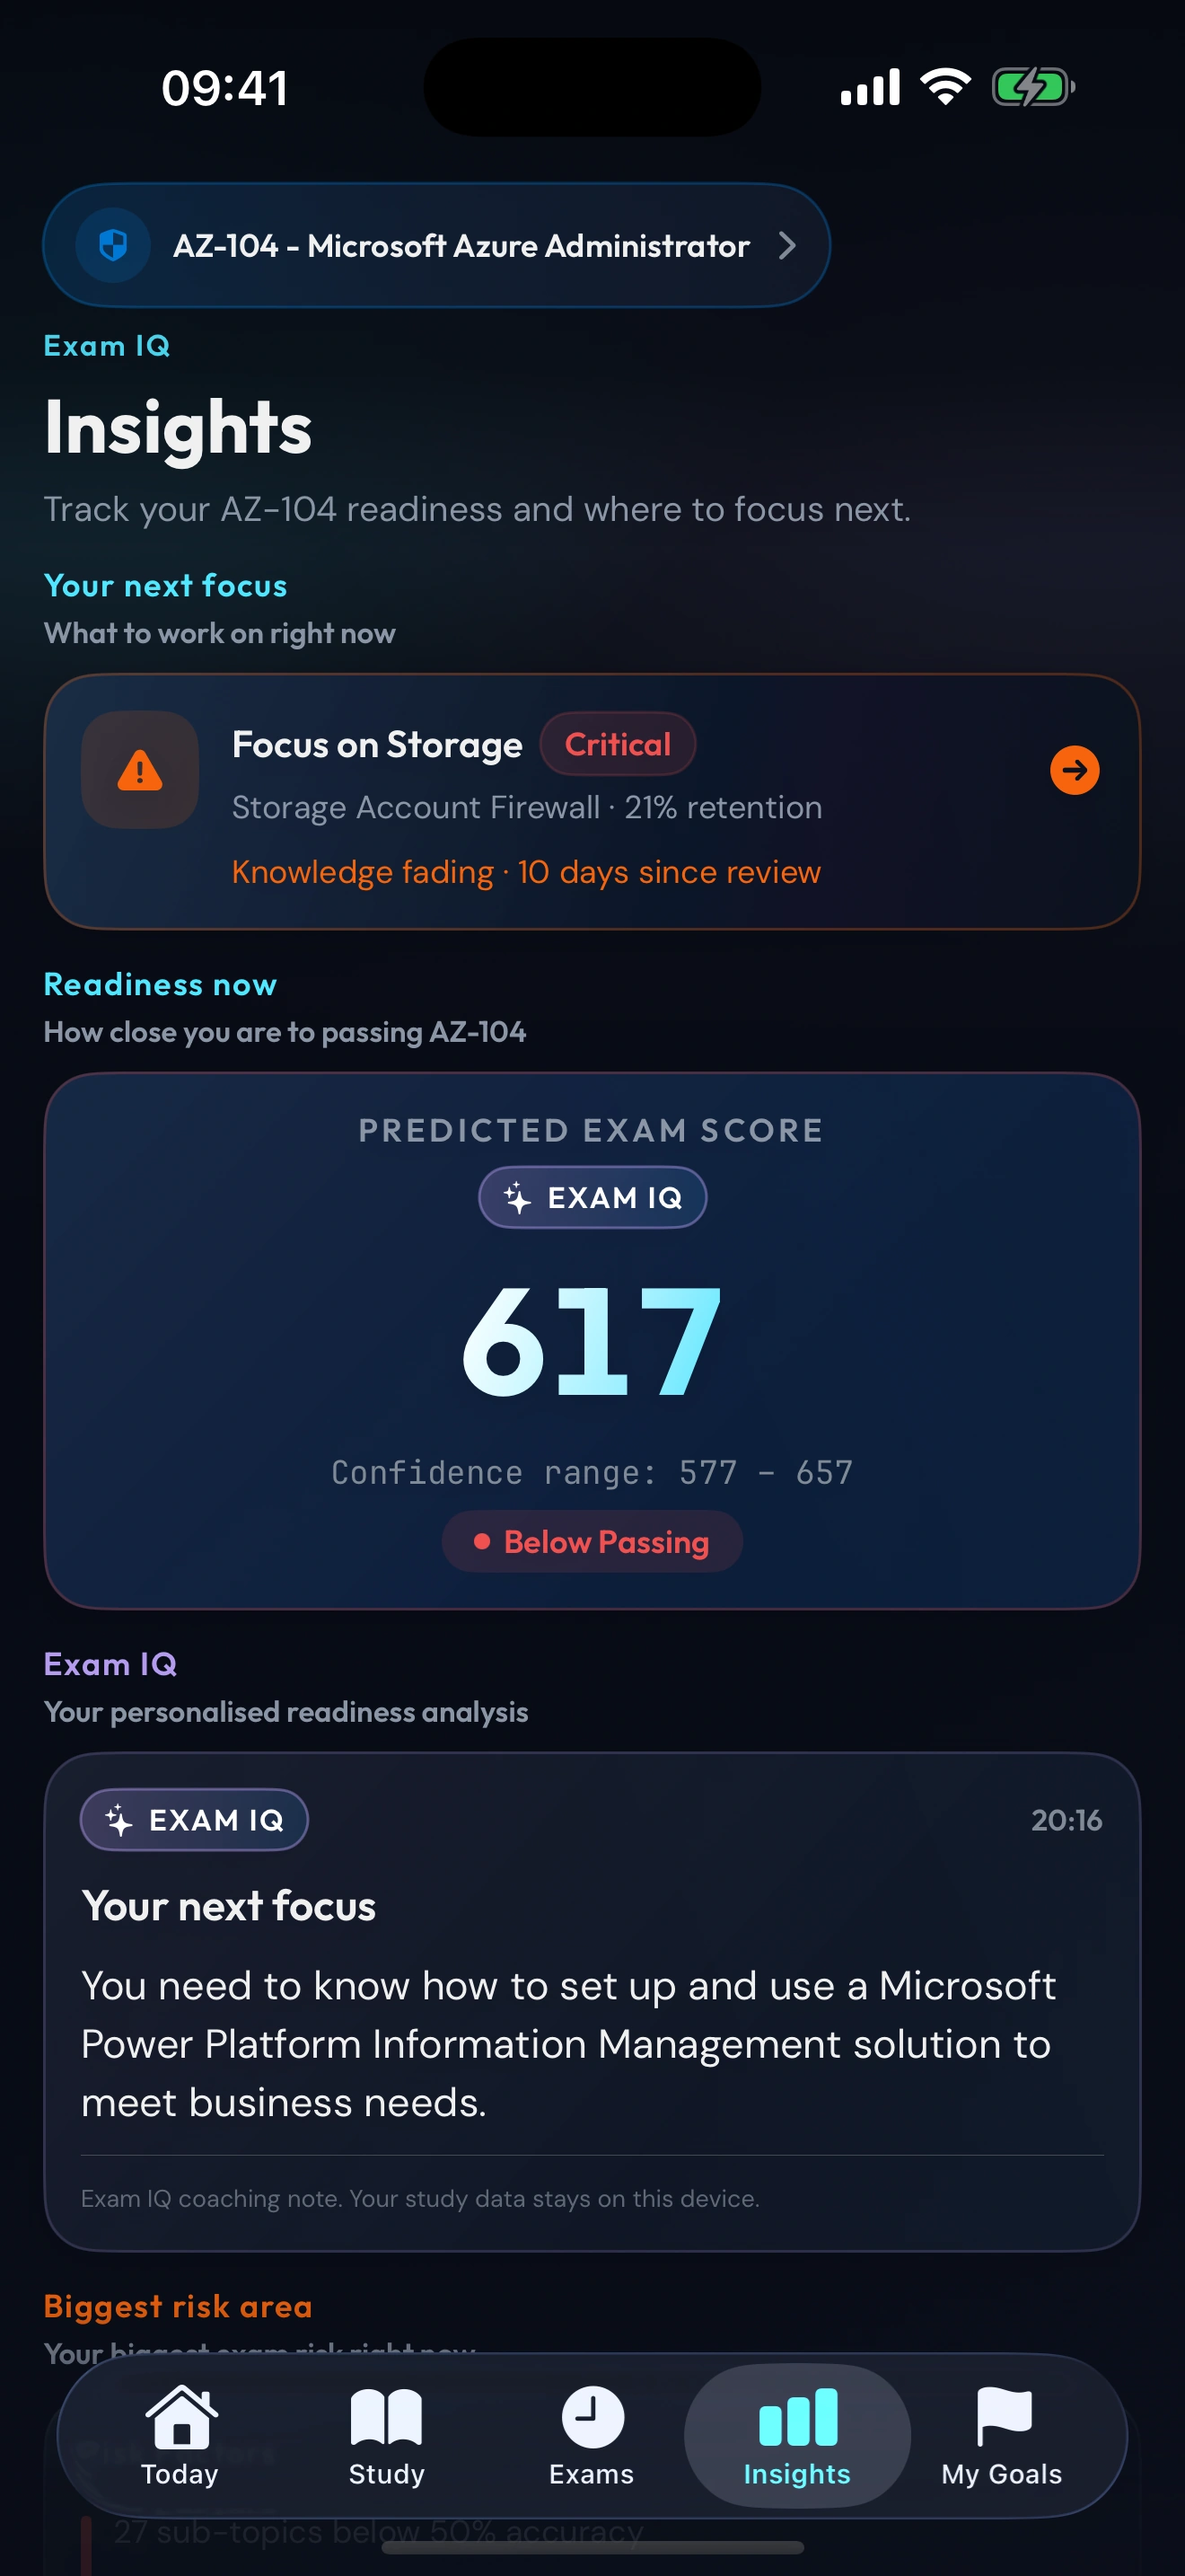
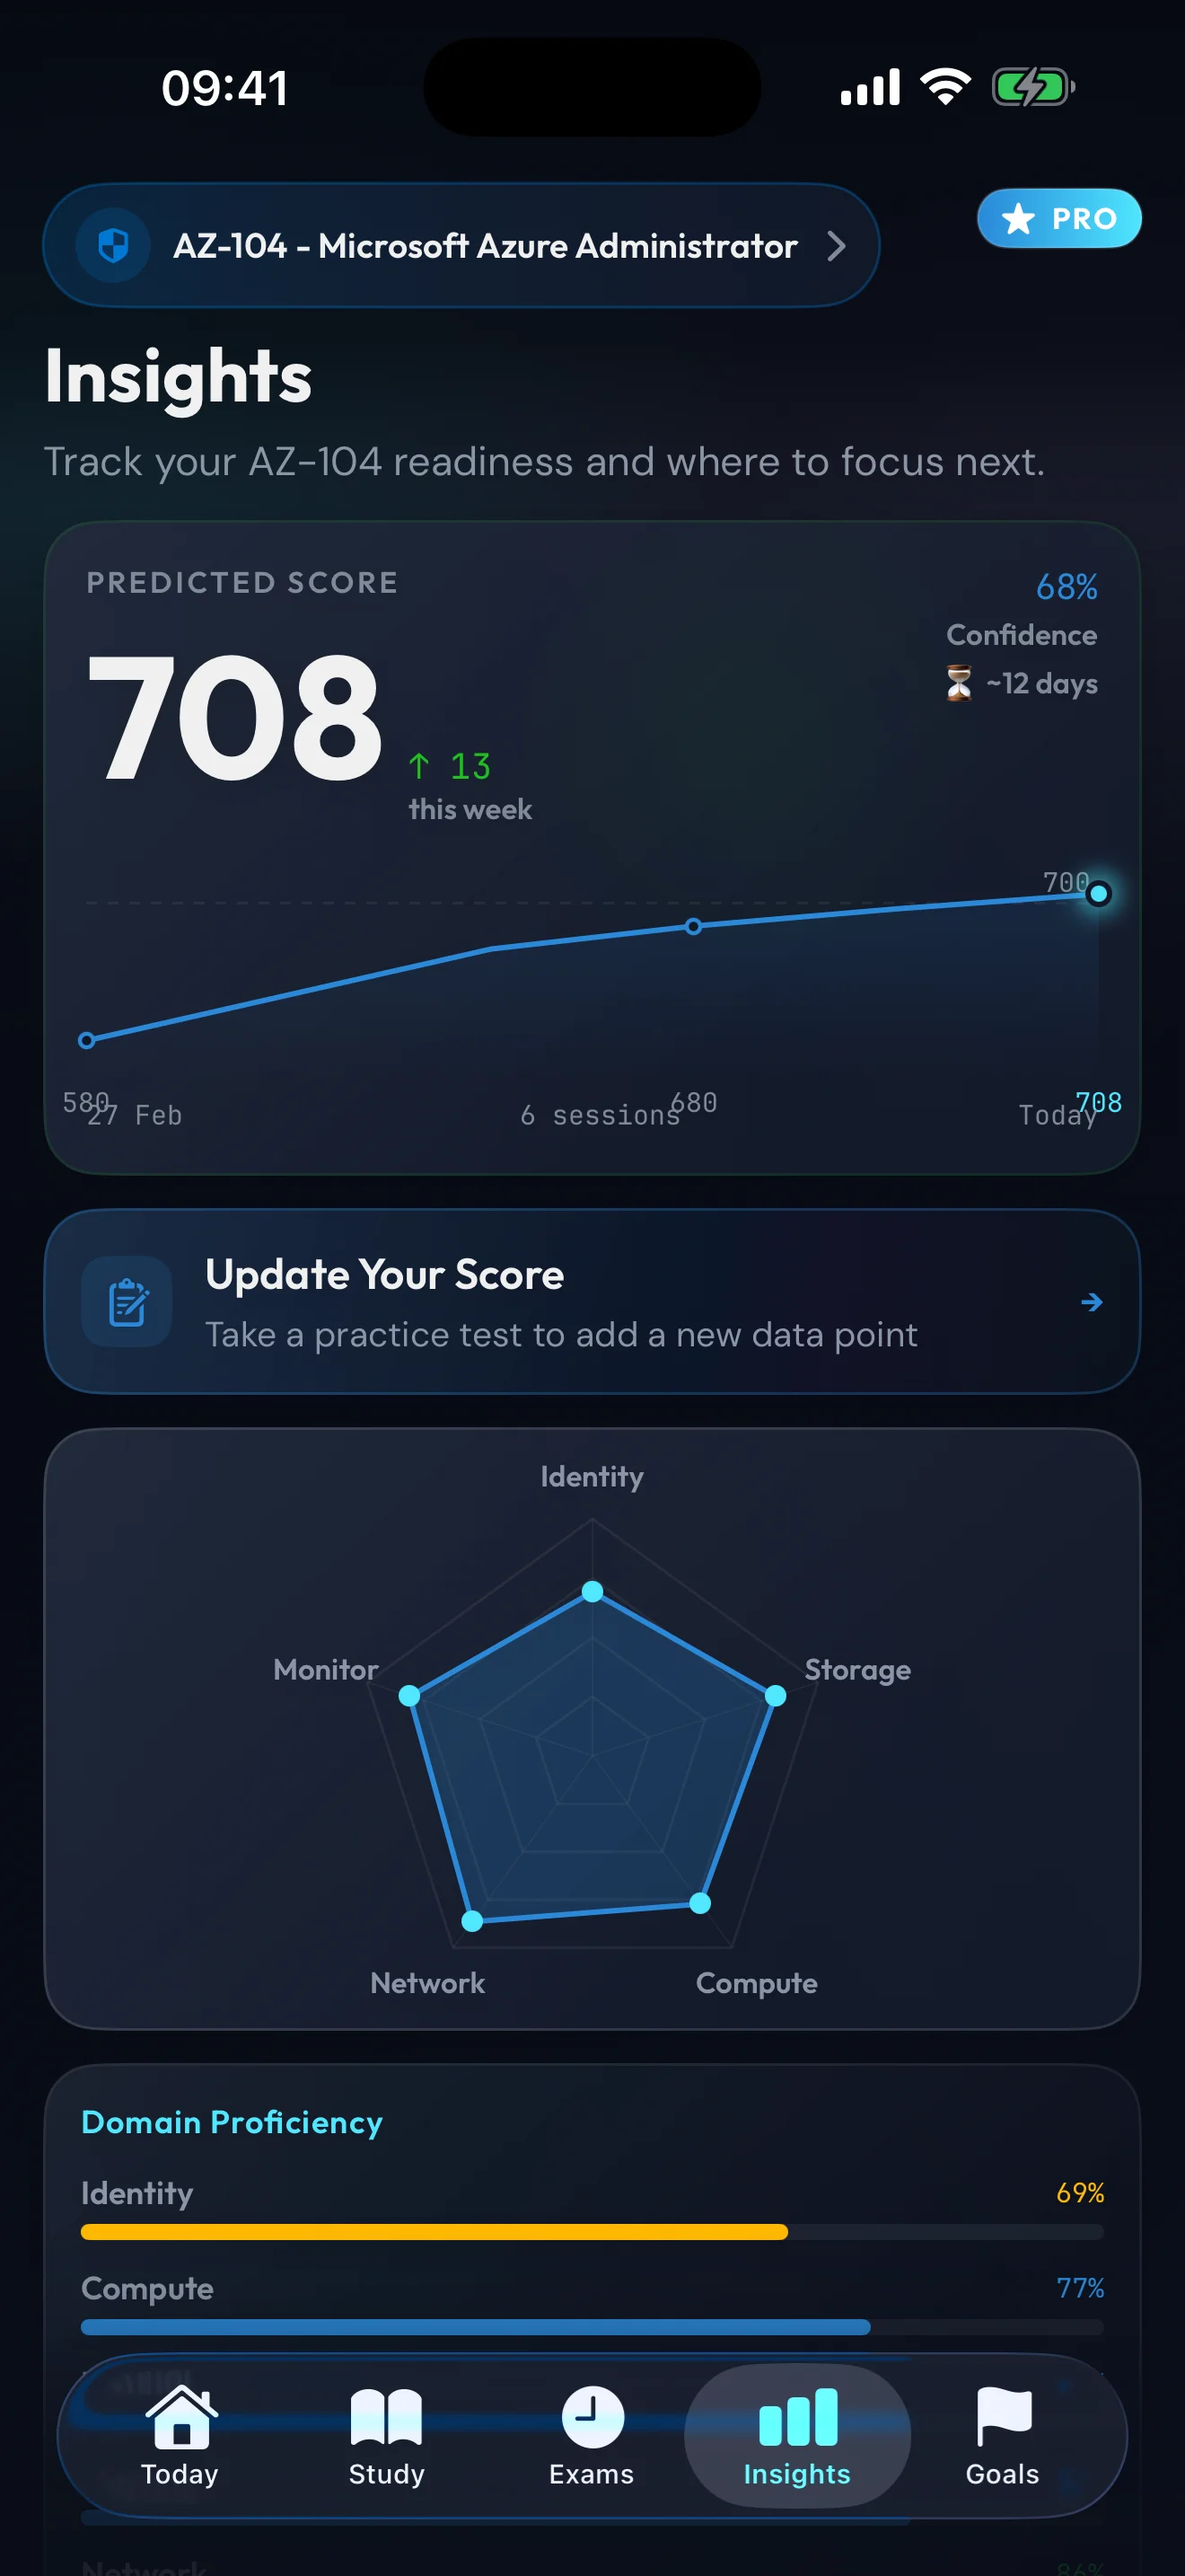
updated for v1.3.0
updated for v1.3.0

diff --git a/apps/AzureMastery/index.html b/apps/AzureMastery/index.html
@@ -951,7 +951,7 @@
     }
     .mac-frame {
       width: 520px;
-      aspect-ratio: 3024 / 1964;
+      aspect-ratio: 3248 / 2002;
       border-radius: 12px;
       background: linear-gradient(160deg,
         #2a2a2e 0%, #1c1c1f 30%, #111113 60%, #232325 85%, #2a2a2e 100%);
@@ -1703,7 +1703,7 @@
       </div>
       <div class="screenshot-frame">
         <div class="phone-frame">
-          <div class="phone-screen"><img src="images/cap-exam-iq.webp" alt="Exam IQ insights with predicted score and confidence range" loading="lazy" class="phone-screen-img"></div>
+          <div class="phone-screen"><img src="images/cap-exam-iq.webp" alt="Insights page with predicted score chart, radar analysis, and domain proficiency" loading="lazy" class="phone-screen-img"></div>
         </div>
       </div>
       <div class="screenshot-frame">
@@ -1763,24 +1763,22 @@
           <div class="ipad-frame">
             <div class="ipad-screen">
               <div class="ipad-slide active" style="background-image: url('images/cap-ipad-today.webp');"></div>
-              <div class="ipad-slide" style="background-image: url('images/cap-ipad-study.webp');"></div>
               <div class="ipad-slide" style="background-image: url('images/cap-ipad-insights.webp');"></div>
-              <div class="ipad-slide" style="background-image: url('images/cap-ipad-exams.webp');"></div>
-              <div class="ipad-slide" style="background-image: url('images/cap-ipad-certpath.webp');"></div>
-              <div class="ipad-slide" style="background-image: url('images/cap-ipad-goals.webp');"></div>
-              <div class="ipad-slide" style="background-image: url('images/cap-ipad-study-session.webp');"></div>
               <div class="ipad-slide" style="background-image: url('images/cap-ipad-question.webp');"></div>
+              <div class="ipad-slide" style="background-image: url('images/cap-ipad-exams.webp');"></div>
+              <div class="ipad-slide" style="background-image: url('images/cap-ipad-exam-results.webp');"></div>
+              <div class="ipad-slide" style="background-image: url('images/cap-ipad-study-session.webp');"></div>
+              <div class="ipad-slide" style="background-image: url('images/cap-ipad-goals.webp');"></div>
             </div>
           </div>
           <div class="ipad-dots" role="tablist" aria-label="iPad screenshot navigation">
             <button class="ipad-dot active" data-index="0" role="tab" aria-selected="true" aria-label="Today"></button>
-            <button class="ipad-dot" data-index="1" role="tab" aria-selected="false" aria-label="Study"></button>
-            <button class="ipad-dot" data-index="2" role="tab" aria-selected="false" aria-label="Insights"></button>
+            <button class="ipad-dot" data-index="1" role="tab" aria-selected="false" aria-label="Insights"></button>
+            <button class="ipad-dot" data-index="2" role="tab" aria-selected="false" aria-label="Question"></button>
             <button class="ipad-dot" data-index="3" role="tab" aria-selected="false" aria-label="Exams"></button>
-            <button class="ipad-dot" data-index="4" role="tab" aria-selected="false" aria-label="Certification Path"></button>
-            <button class="ipad-dot" data-index="5" role="tab" aria-selected="false" aria-label="Goals"></button>
-            <button class="ipad-dot" data-index="6" role="tab" aria-selected="false" aria-label="Study Session"></button>
-            <button class="ipad-dot" data-index="7" role="tab" aria-selected="false" aria-label="Question"></button>
+            <button class="ipad-dot" data-index="4" role="tab" aria-selected="false" aria-label="Exam Results"></button>
+            <button class="ipad-dot" data-index="5" role="tab" aria-selected="false" aria-label="Study Session"></button>
+            <button class="ipad-dot" data-index="6" role="tab" aria-selected="false" aria-label="Goals"></button>
           </div>
         </div>
 
